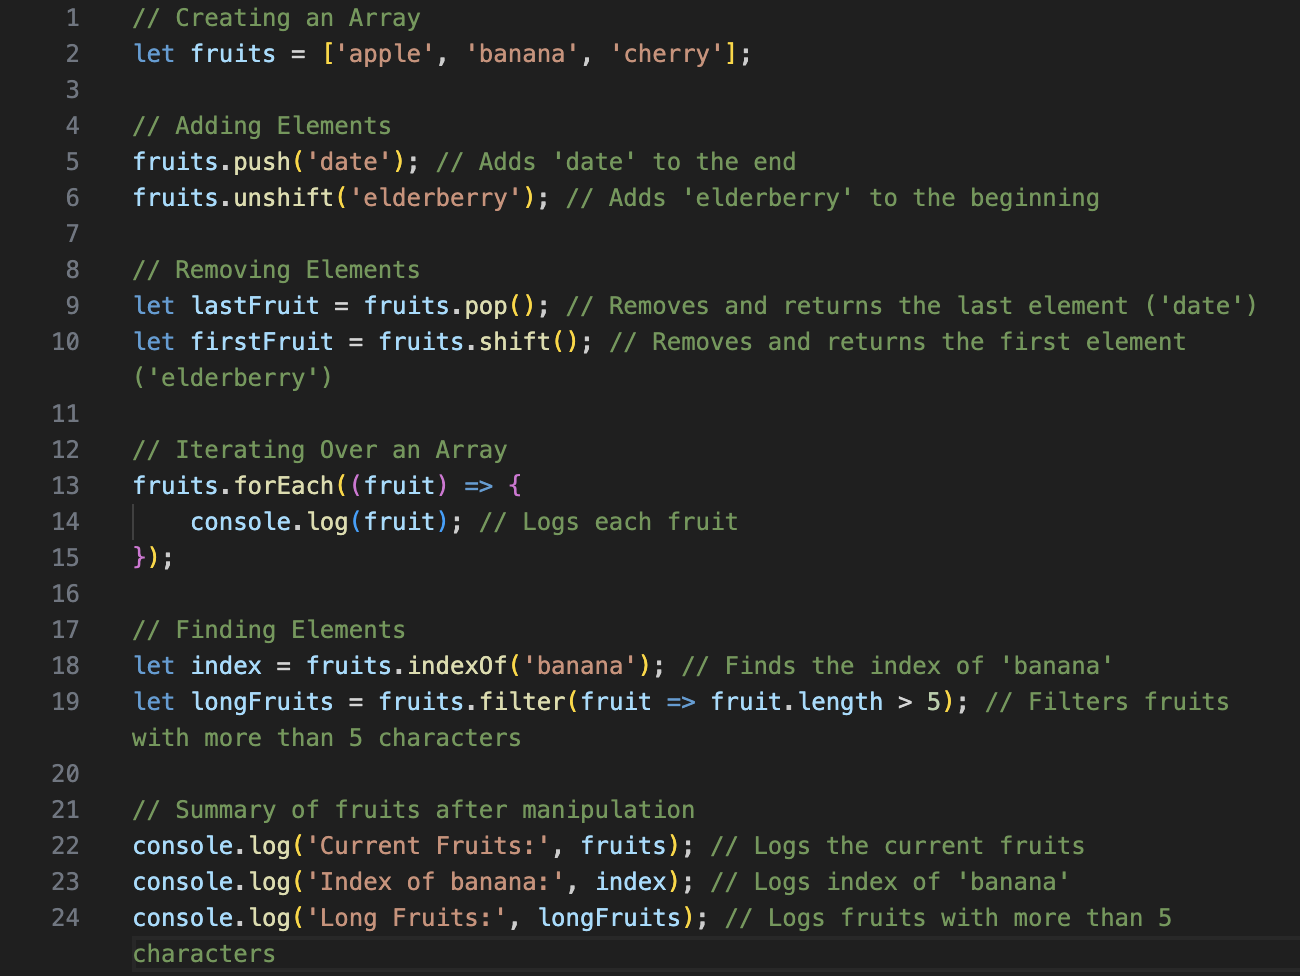
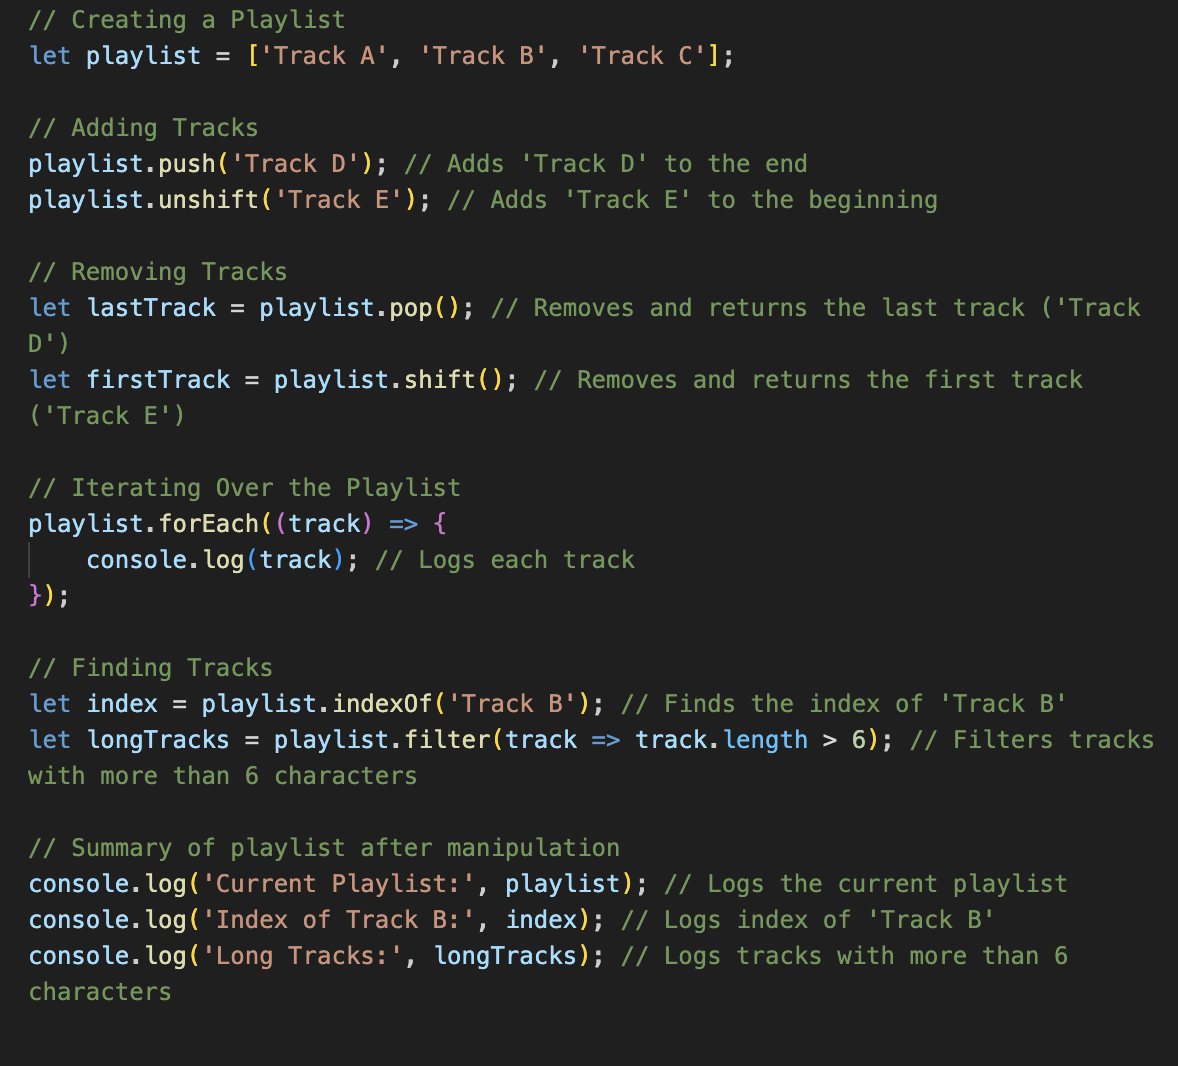
made question 10,11 and 12, more similar with the examples

diff --git a/code.js b/code.js
@@ -1,43 +1,32 @@
-// Creating an Array
-let fruits = ['apple', 'banana', 'cherry'];
+// Creating a Playlist
+let playlist = ['Track A', 'Track B', 'Track C'];
 
-// Adding Elements
-fruits.push('date'); // Adds 'date' to the end
-fruits.unshift('elderberry'); // Adds 'elderberry' to the beginning
+// Adding Tracks
+playlist.push('Track D'); // Adds 'Track D' to the end
+playlist.unshift('Track E'); // Adds 'Track E' to the beginning
 
-// Removing Elements
-let lastFruit = fruits.pop(); // Removes and returns the last element ('date')
-let firstFruit = fruits.shift(); // Removes and returns the first element ('elderberry')
+// Removing Tracks
+let lastTrack = playlist.pop(); // Removes and returns the last track ('Track D')
+let firstTrack = playlist.shift(); // Removes and returns the first track ('Track E')
 
-// Iterating Over an Array
-fruits.forEach((fruit) => {
-    console.log(fruit); // Logs each fruit
+// Iterating Over the Playlist
+playlist.forEach((track) => {
+    console.log(track); // Logs each track
 });
 
-// Finding Elements
-let index = fruits.indexOf('banana'); // Finds the index of 'banana'
-let longFruits = fruits.filter(fruit => fruit.length > 5); // Filters fruits with more than 5 characters
+// Finding Tracks
+let index = playlist.indexOf('Track B'); // Finds the index of 'Track B'
+let longTracks = playlist.filter(track => track.length > 6); // Filters tracks with more than 6 characters
 
-// Summary of fruits after manipulation
-console.log('Current Fruits:', fruits); // Logs the current fruits
-console.log('Index of banana:', index); // Logs index of 'banana'
-console.log('Long Fruits:', longFruits); // Logs fruits with more than 5 characters
-
-
+// Summary of playlist after manipulation
+console.log('Current Playlist:', playlist); // Logs the current playlist
+console.log('Index of Track B:', index); // Logs index of 'Track B'
+console.log('Long Tracks:', longTracks); // Logs tracks with more than 6 characters
 
 ________
 
 Question 11
 
-// Manipulating Objects in JavaScript
-let car = {
-    make: 'Toyota',
-    model: 'Camry',
-    year: 2020,
-    start: function() {
-        console.log('Car started');
-    }
-};
 
 // Manipulating Objects in JavaScript
 let song = {
@@ -63,7 +52,7 @@ song.releaseYear = 2021;
 // Calling a Method
 song.play(); // Outputs: Now playing: Blinding Lights by The Weeknd
 
--________
+_________
 
 
 

diff --git a/README.md b/README.md
@@ -228,22 +228,22 @@ Within this example, the values of isSunny and isWeekend will display different 
 Manipulating Arrays in JavaScript
 Arrays in JavaScript are dynamic data structures that can hold multiple values, making them essential for various programming tasks. They come equipped with numerous built-in methods that facilitate the manipulation of their elements. Below, we will explore some fundamental operations, using examples from the provided code.
 
-![alt text](IMAGES/Question10.pngO)
+![alt text](IMAGES/Question10.png)
 
-The code snippet demonstrates various operations on an array in JavaScript, focusing on a list of fruits. Initially, an array named fruits is created with three elements: 'apple', 'banana', and 'cherry'. Elements are then added using the push method, which appends 'date' to the end of the array, and the unshift method, which adds 'elderberry' to the beginning. After these additions, the array contains ['elderberry', 'apple', 'banana', 'cherry', 'date'].
+The code snippet demonstrates various operations on a playlist in JavaScript, focusing on a list of tracks. Initially, a playlist named playlist is created with three elements: 'Track A', 'Track B', and 'Track C'. Tracks are then added using the push method, which appends 'Track D' to the end of the playlist, and the unshift method, which adds 'Track E' to the beginning. After these additions, the playlist contains ['Track E', 'Track A', 'Track B', 'Track C', 'Track D'].
 
-Subsequently, elements are removed from the array using the pop method, which removes the last element ('date') and returns it, leaving the array as ['elderberry', 'apple', 'banana', 'cherry']. The shift method is then used to remove the first element ('elderberry'), resulting in the array now being ['apple', 'banana', 'cherry'].
+Subsequently, tracks are removed from the playlist using the pop method, which removes the last track ('Track D') and returns it, leaving the playlist as ['Track E', 'Track A', 'Track B', 'Track C']. The shift method is then used to remove the first track ('Track E'), resulting in the playlist now being ['Track A', 'Track B', 'Track C'].
 
-To display the fruits, the forEach method is utilized, which iterates over each element in the array and logs each fruit to the console. The code also includes operations to find specific elements, using the indexOf method to get the index of 'banana', which is 1. Additionally, the filter method is employed to create a new array containing fruits with more than five characters; however, since none of the current fruits meet this criterion, this results in an empty array.
+To display the tracks, the forEach method is utilized, which iterates over each element in the playlist and logs each track to the console. The code also includes operations to find specific tracks, using the indexOf method to get the index of 'Track B', which is 1. Additionally, the filter method is employed to create a new array containing tracks with more than six characters; however, since none of the current tracks meet this criterion, this results in an empty array.
 
-Finally, the current state of the fruits array, the index of 'banana', and the list of long fruits are logged to the console, summarizing the array's contents after the various manipulations. Overall, this code illustrates basic array manipulation techniques, including adding, removing, iterating, and filtering elements in JavaScript.
+Finally, the current state of the playlist, the index of 'Track B', and the list of long tracks are logged to the console, summarizing the playlist's contents after the various manipulations. Overall, this code illustrates basic playlist manipulation techniques, including adding, removing, iterating, and filtering tracks in JavaScript.
 
 
 # Question Eleven
 
 In JavaScript, objects are versatile data structures that allow developers to store collections of key-value pairs. They are essential for organizing and managing data in a structured way. Below, we will explore how objects can be created and manipulated, using examples.
 
-(add example from code.js here)
+![alt text](IMAGES/Question11.png)
 
 The example showcases a song object, which includes properties such as title, artist, album, and releaseYear, along with a method called play. You can access properties using dot notation (e.g., song.title) or bracket notation (e.g., song['artist']). New properties can be added dynamically, such as song.genre = 'Pop', and existing properties can be modified, like updating song.releaseYear to 2021. Methods within objects can be invoked like standard functions; calling song.play() outputs "Now playing: Blinding Lights by The Weeknd." This manipulation of objects allows for efficient organization and retrieval of music-related data in JavaScript.
 
@@ -252,6 +252,6 @@ The example showcases a song object, which includes properties such as title, ar
 
 JSON (JavaScript Object Notation) is a lightweight data interchange format that is easy for humans to read and write and easy for machines to parse and generate. In JavaScript, JSON is often used for data exchange between a client and a server. Below, we will explore how to manipulate JSON data in JavaScript.
 
-(add in screenshot of example code.js)
+![alt text](IMAGES/Question12.png)
 
 In the example, the song object is converted into a JSON string using JSON.stringify(), resulting in songJSON, which holds a textual representation of the object. This is particularly useful for sending data between a client and a server, as well as for storing information in a structured format. The output of console.log(songJSON) shows the object as a JSON string. To manipulate JSON data, JSON.parse() is employed to convert the JSON string back into a JavaScript object. In this case, newSong holds the parsed object, allowing for straightforward access to its properties, such as retrieving newSong.album, which outputs "After Hours." Additionally, properties can be updated easily, as shown by changing newSong.releaseYear to 2022. This demonstrates how JavaScript facilitates the manipulation of JSON data, making it an effective tool for managing music-related information in applications.
